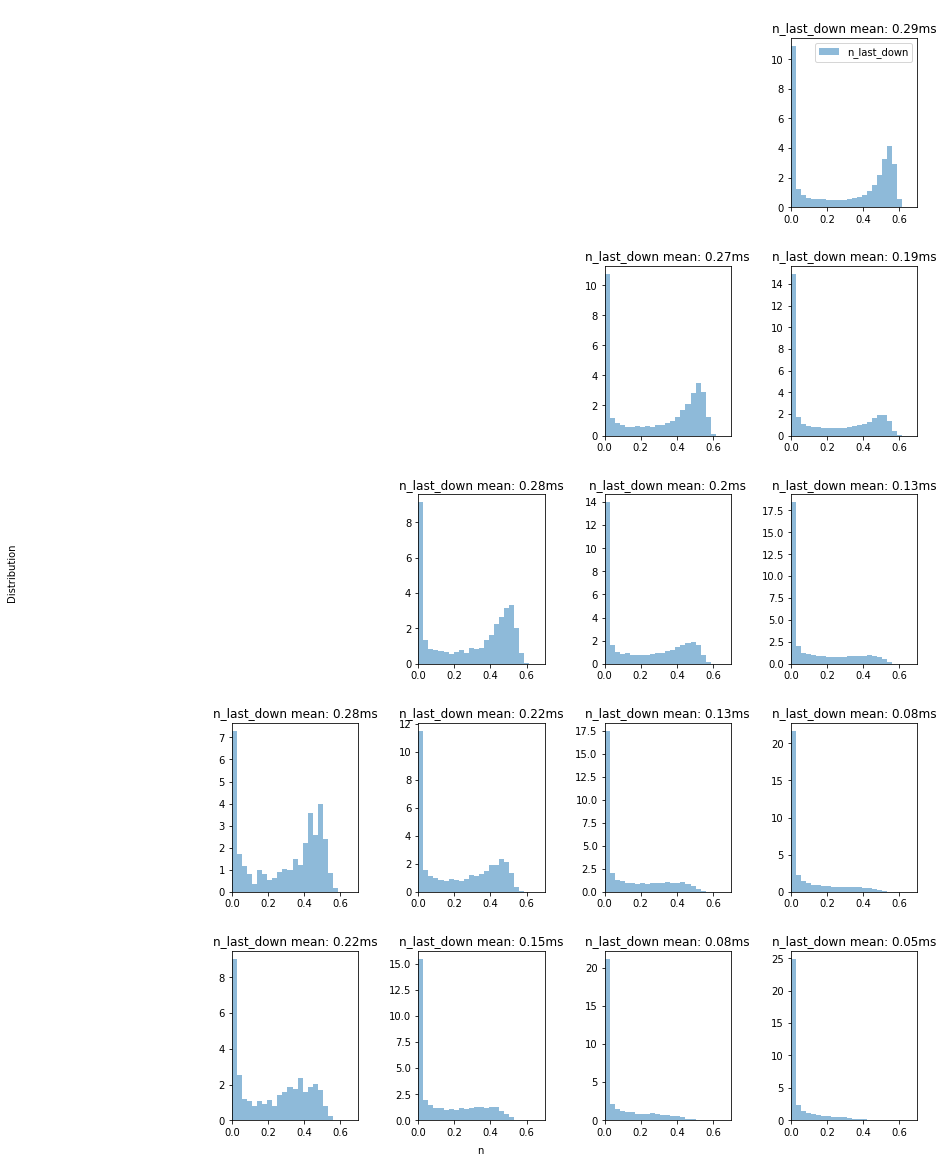
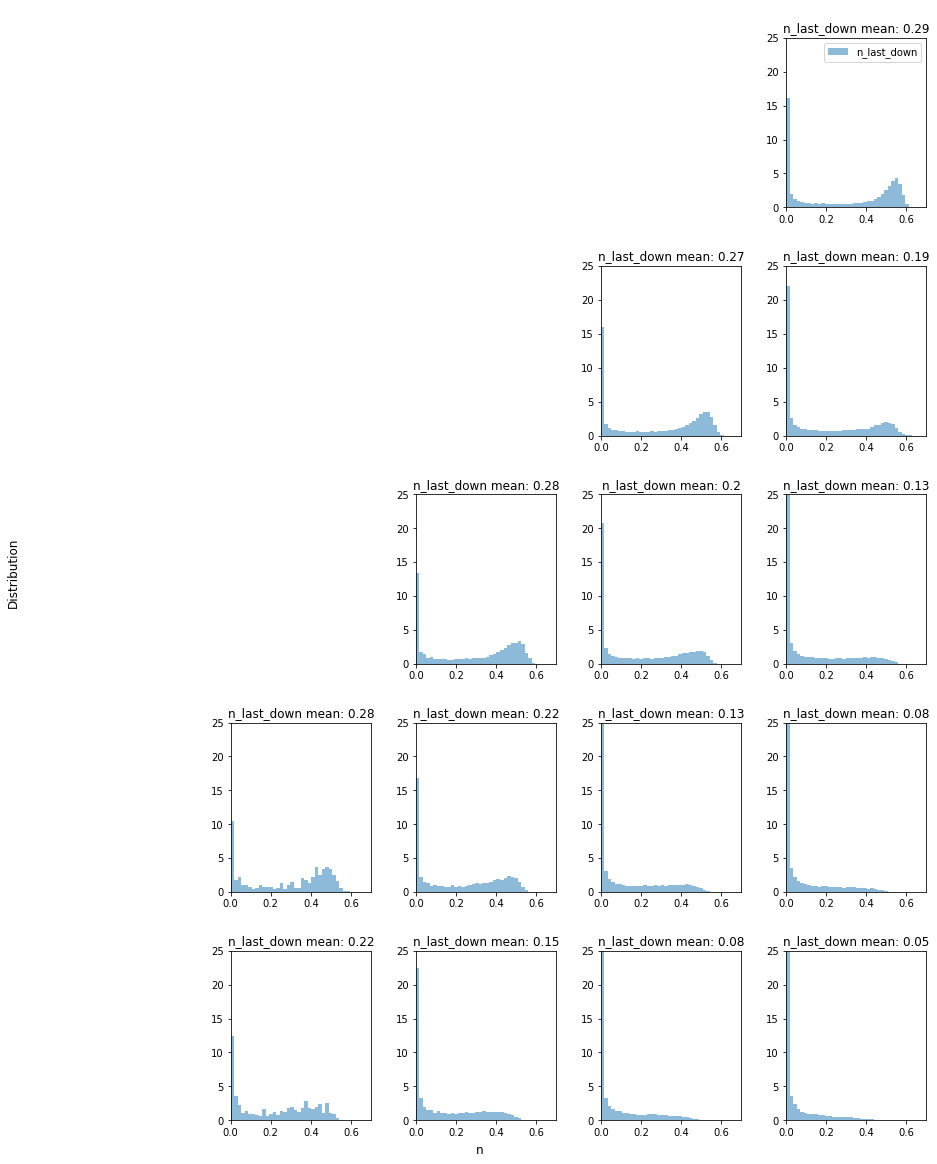
n plots fixed

diff --git a/plot_hists_segments.py b/plot_hists_segments.py
@@ -57,14 +57,13 @@ def plot_subplot(fig, file_name, name, keys, idx_tau_n, idx_Iapp, log, cut, fit)
         var = {}
         for key in keys:
 
-            flat_results = np.array([result for neuron in results[key] for result in neuron])*1000
-            cut = flat_results.mean()*5
-            ax.hist(flat_results, normed = True, bins = int(cut),  alpha = .5, range = ((0,cut)), log = log, label = key)
-            ax.set_xlim((0,cut))
-            plot_fit(flat_results, cut, fit)
+            flat_results = np.array([result for neuron in results[key] for result in neuron])#*1000
+            ax.hist(flat_results, normed = True, bins = 40,  alpha = .5, range = ((0.0005,cut)), log = log, label = key)
+            ax.set_xlim((0.0005,cut))
+#            plot_fit(flat_results, cut, fit)
             means[key] = int(flat_results.mean())
             means[key] = round(flat_results.mean(),2)
-        means_title_part = ''.join(['\n' + key + ' mean: ' + str(means[key]) + 'ms' for key in keys])
+        means_title_part = ''.join(['\n' + key + ' mean: ' + str(means[key]) for key in keys])
         title = ''
 
         if name == 'quiet_and_burst':
@@ -78,7 +77,7 @@ def plot_subplot(fig, file_name, name, keys, idx_tau_n, idx_Iapp, log, cut, fit)
             
         if name == 'burst':
             ax.set_title(means_title_part)
-#        ax.set_ylim((0,.2))
+        ax.set_ylim((0,4000))
         ax.set_title(title+means_title_part)
     except IOError:
         ax.axis('off')
@@ -111,5 +110,5 @@ def plot_all_histograms(name, log = False, cut=20, fit = None):
         
         plt.savefig('pictures_report/'+name+' '+str(I_noise)+'.png', bbox_inches = 'tight')
         
-plot_all_histograms('up', fit = 'exp', log = False, cut = 10)
+plot_all_histograms('n_last_up', log = False, cut = .002)
 
